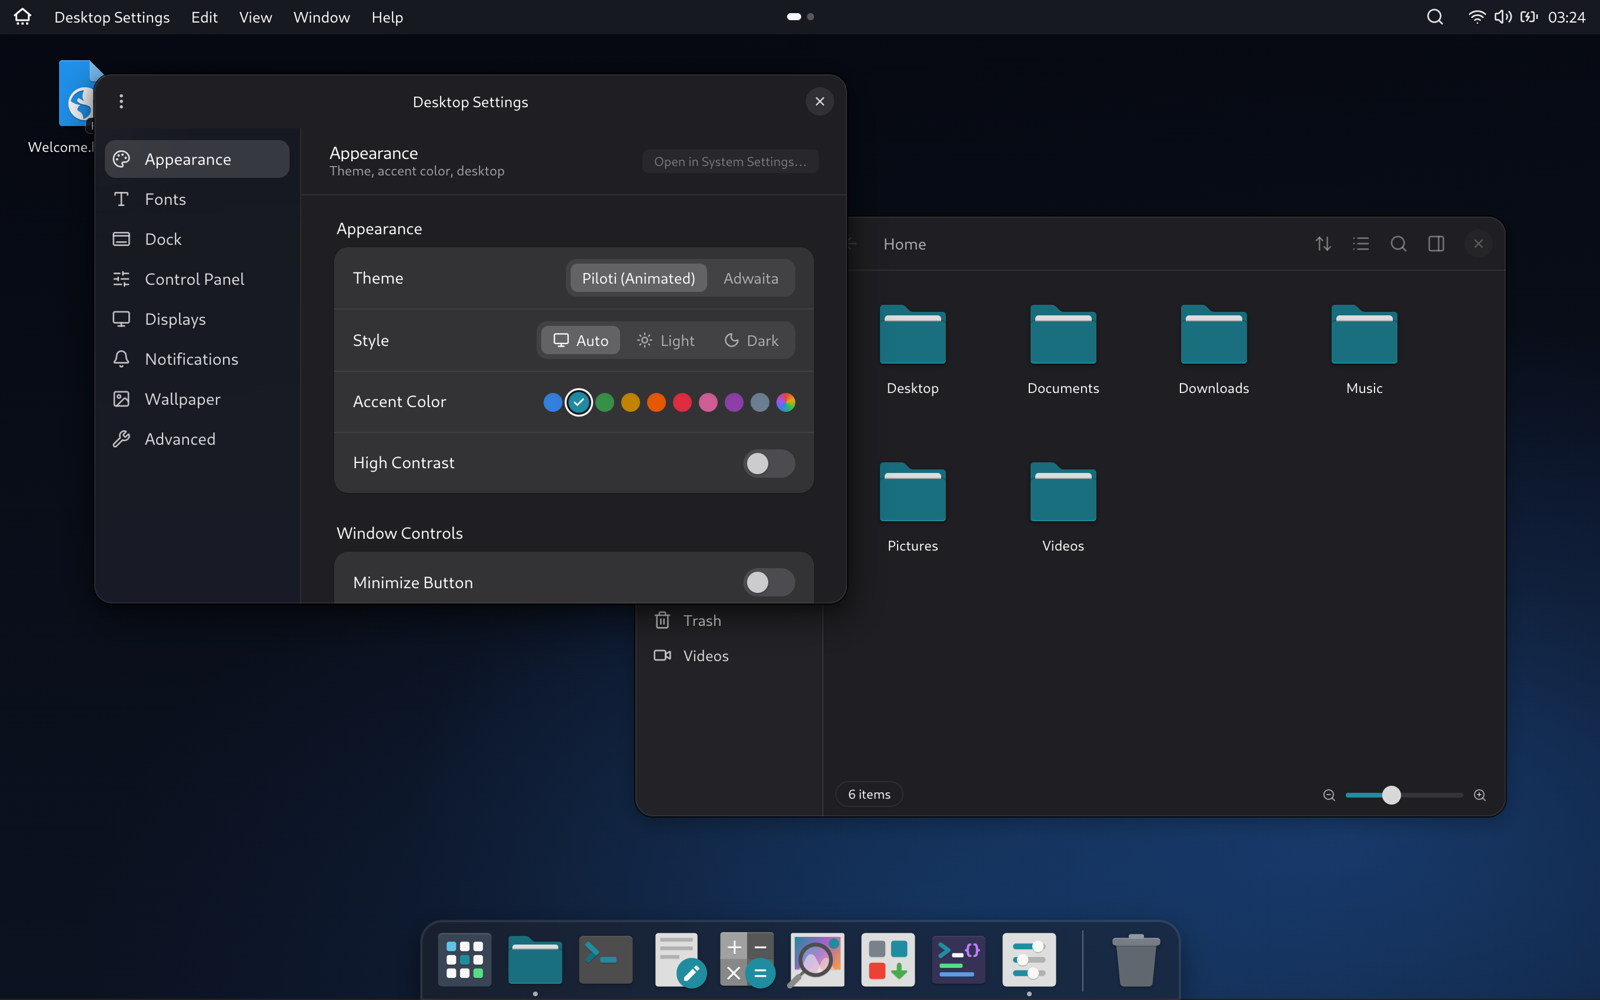
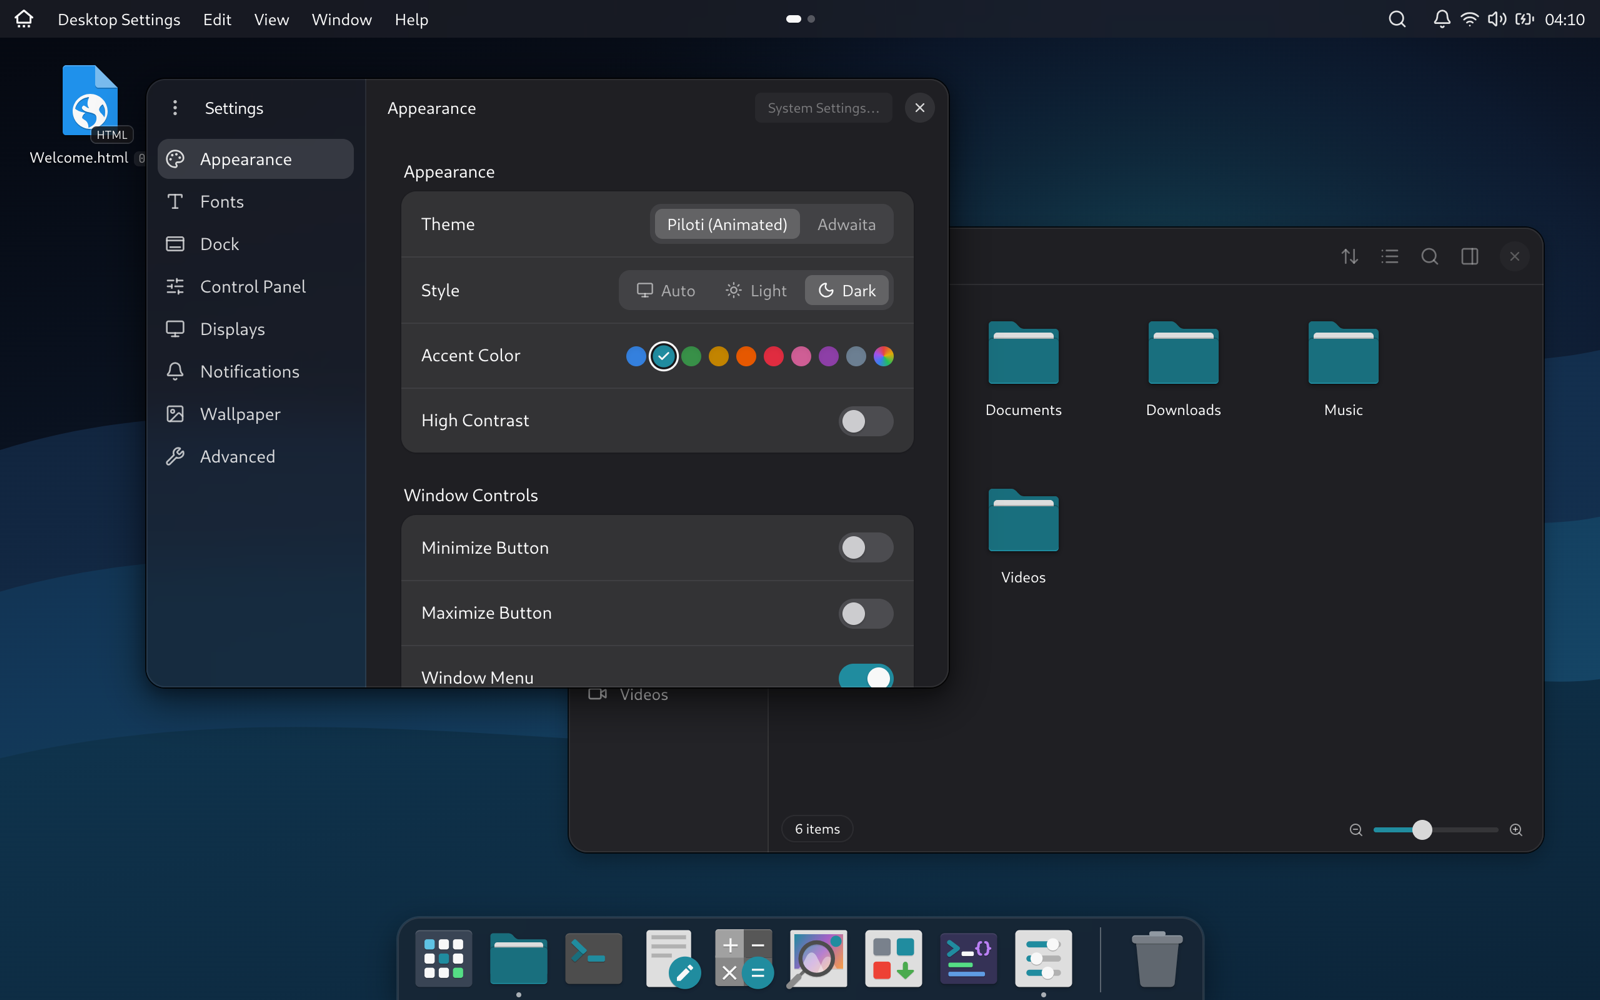
docs(website): update light and dark screenshots with Piloti Waves wallpaper

diff --git a/src/context/SettingsContext.tsx b/src/context/SettingsContext.tsx
@@ -1207,6 +1207,9 @@ export function useSettingsValue(options?: {
   const activePictureUri =
     selectGnomePictureUri(settings.gnomeBackground, resolvedTheme) ||
     settings.customWallpaperUrl ||
+    (resolvedTheme === "dark" && activeWallpaper?.imageUrlDark
+      ? activeWallpaper.imageUrlDark
+      : activeWallpaper?.imageUrl) ||
     "";
   const localPicturePath = fileUriToLocalPath(activePictureUri);
   const isLocalPictureUri = Boolean(localPicturePath);

diff --git a/src/context/WindowsContext.tsx b/src/context/WindowsContext.tsx
@@ -396,6 +396,7 @@ export function useWindowsValue(
           iconName: settingsDef.iconName,
           gradient: settingsDef.gradient,
           builtinComponent: "settings",
+          clientFrame: true,
           workspace: saved?.workspace ?? 1,
           position: clamped.position,
           size: clamped.size,
